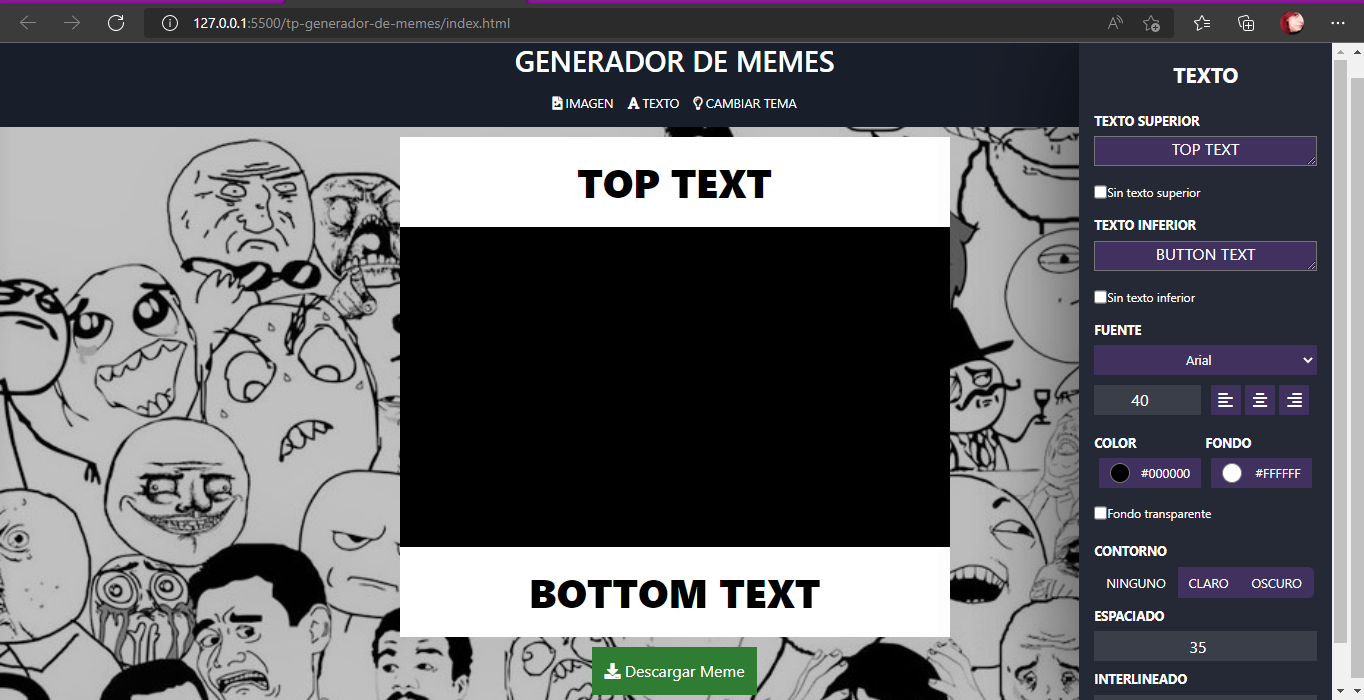
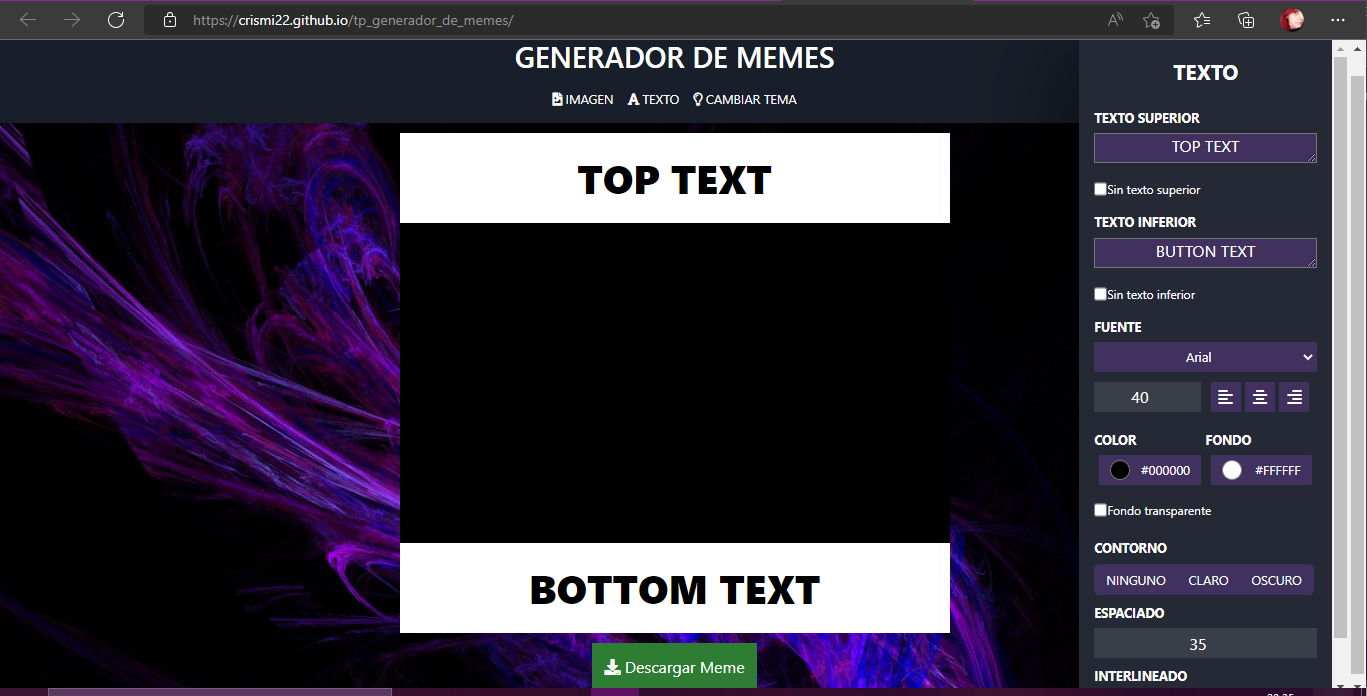
readme modificado - ok

diff --git a/style.css b/style.css
@@ -141,6 +141,7 @@
     flex-direction: column;
     font-size: 40px;
     font-weight: 800;
+    position: relative;
     background-size:cover;
     background-color: #000; 
 } 
@@ -149,17 +150,22 @@
     padding: 15px;
     background-color: #fff;
     color: #000;
-    margin-top: auto;
+    margin-top: 0;
     margin-bottom: 0%;     
 }
-
+#textoTop{
+    top: 0;
+}
 .text-inferior{
     padding: 15px;
     background-color: #fff;
     color: #000;
-    margin-bottom: 0;   
+    margin-bottom: 0;
+    position:relative;   
 }
-
+#textoInf{
+    bottom: 0;
+}
 #caja-imagen{
     width: 100%;
     flex-grow: 1;

diff --git a/app.js b/app.js
@@ -239,8 +239,10 @@ check3.addEventListener('change', (event) => {
     else {
         textoTop.style.backgroundColor = colorFondoTexto.value;
         textoInf.style.backgroundColor = colorFondoTexto.value;
+        textoTop.style.position = 'relative';
+        textoInf.style.position = 'relative';
     }   
-});
+});     
 
 
 // ***********************************************************

diff --git a/README.md b/README.md
@@ -14,5 +14,8 @@
 > Un gran poder conlleva una gran responsabilidad - Tio Ben
 
 _Espero que les guste mi página, esta creada con mucho esfuerzo y horas silla :)_
+### Pseudocodigo de input texto TOP TEXT
+![PSEUDOCODIGO DE INPUT TEXTO TOP TEXT](./imagenes/PSEUDOCODIGO.png)
+
 
 README HECHO CON [Markdown](https://www.markdownguide.org/cheat-sheet/)
